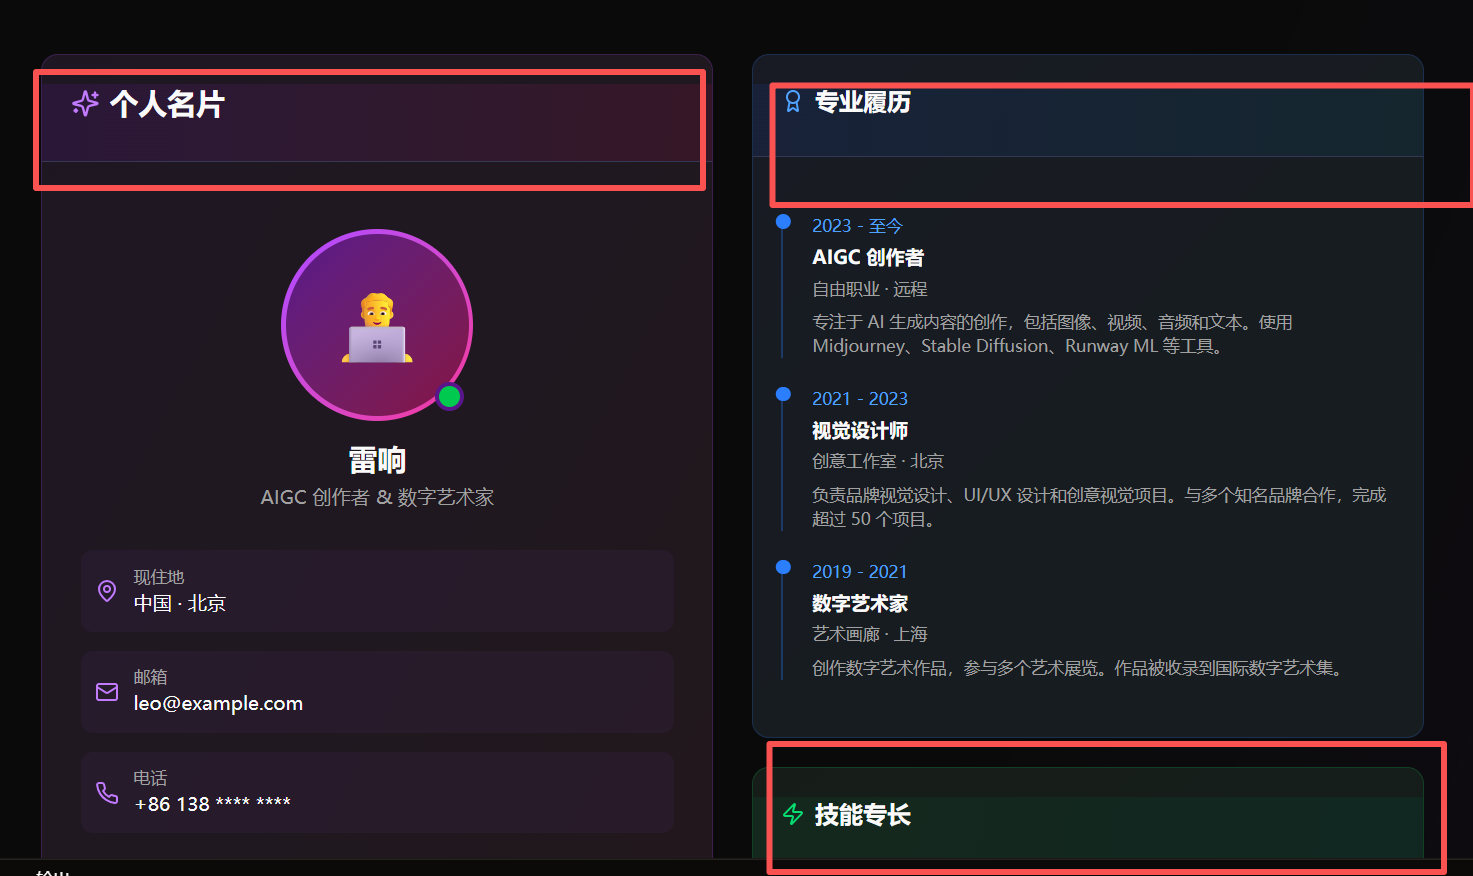
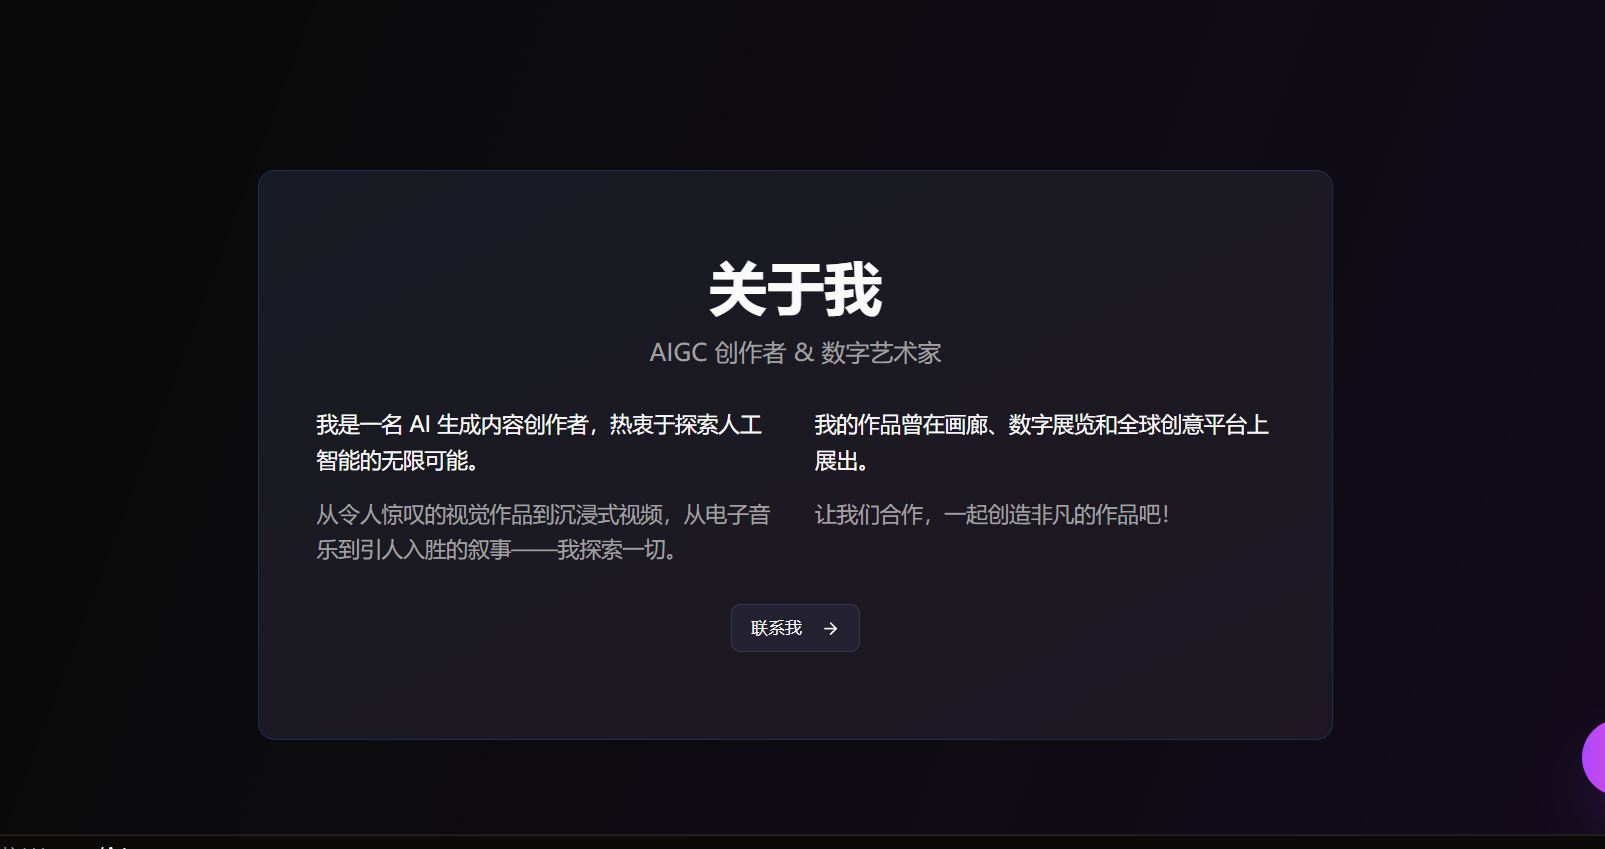
feat: 优化个人名片界面，添加科技感元素和对齐布局
- 添加科技感背景网格和光晕效果
- 增强卡片标题的流光动画和发光效果
- 优化头像区域的旋转光圈和网格背景
- 为信息项添加悬停光效和边框动画
- 增强社交媒体和联系按钮的交互效果
- 为履历时间轴节点添加发光动画
- 为技能标签添加悬停效果
- 添加 shimmer 自定义动画到全局样式
- 优化整体布局对齐，添加装饰线条

Changed region(s): [[0.0, 0.0612, 1.0, 1.0], [0.0, 0.98, 0.0625, 1.0]]

diff --git a/src/app/page.tsx b/src/app/page.tsx
@@ -244,24 +244,50 @@ export default function Home() {
       </motion.div>
 
       {/* Personal Profile Card Section */}
-      <section className="py-20 container mx-auto px-4">
+      <section className="py-20 container mx-auto px-4 relative overflow-hidden">
+        {/* 科技感背景 */}
+        <div className="absolute inset-0 opacity-30">
+          <div className="absolute inset-0" style={{
+            backgroundImage: `
+              linear-gradient(rgba(168, 85, 247, 0.03) 1px, transparent 1px),
+              linear-gradient(90deg, rgba(168, 85, 247, 0.03) 1px, transparent 1px)
+            `,
+            backgroundSize: '50px 50px'
+          }} />
+          <div className="absolute top-0 left-1/4 w-96 h-96 bg-purple-500/10 rounded-full blur-3xl" />
+          <div className="absolute bottom-0 right-1/4 w-96 h-96 bg-pink-500/10 rounded-full blur-3xl" />
+        </div>
+
         <motion.div
           initial={{ opacity: 0, y: 20 }}
           whileInView={{ opacity: 1, y: 0 }}
           viewport={{ once: true }}
           transition={{ duration: 0.6 }}
-          className="max-w-6xl mx-auto"
+          className="max-w-6xl mx-auto relative"
         >
-          {/* 标题居中优化 */}
-          <div className="text-center mb-12">
-            <h2 className="text-4xl md:text-5xl font-bold mb-4 text-center">
-              <span className="bg-gradient-to-r from-purple-400 via-pink-400 to-blue-400 bg-clip-text text-transparent">
+          {/* 标题居中优化 - 科技感装饰 */}
+          <div className="text-center mb-12 relative">
+            {/* 顶部装饰线 */}
+            <div className="absolute top-0 left-1/2 -translate-x-1/2 w-32 h-1 bg-gradient-to-r from-transparent via-purple-500 to-transparent" />
+            
+            <h2 className="text-4xl md:text-5xl font-bold mb-4 text-center relative">
+              <span className="bg-gradient-to-r from-purple-400 via-pink-400 to-blue-400 bg-clip-text text-transparent relative inline-block">
                 个人名片
+                {/* 光晕效果 */}
+                <span className="absolute inset-0 bg-gradient-to-r from-purple-400/0 via-purple-400/20 to-purple-400/0 blur-xl" />
               </span>
             </h2>
-            <p className="text-lg text-muted-foreground text-center max-w-2xl mx-auto">
+            
+            <p className="text-lg text-muted-foreground text-center max-w-2xl mx-auto relative">
               了解我的专业背景、技能专长和工作经历
             </p>
+
+            {/* 底部装饰线 */}
+            <div className="absolute bottom-0 left-1/2 -translate-x-1/2 w-32 h-1 bg-gradient-to-r from-transparent via-purple-500 to-transparent" />
+            
+            {/* 角落装饰 */}
+            <div className="absolute top-1/2 left-0 w-4 h-4 border-l-2 border-t-2 border-purple-500/50 -translate-y-1/2" />
+            <div className="absolute top-1/2 right-0 w-4 h-4 border-r-2 border-t-2 border-purple-500/50 -translate-y-1/2" />
           </div>
 
           <div className="grid md:grid-cols-2 gap-8 relative">
@@ -269,7 +295,7 @@ export default function Home() {
             <Button
               size="sm"
               variant="outline"
-              className="absolute -top-4 right-0 z-10 border-purple-500/30 hover:bg-purple-500/10 gap-2"
+              className="absolute -top-4 right-0 z-10 border-purple-500/30 hover:bg-purple-500/10 hover:border-purple-500/50 gap-2 transition-all duration-300 hover:shadow-lg hover:shadow-purple-500/20"
               onClick={() => setIsEditorOpen(true)}
             >
               <Edit className="w-4 h-4" />
@@ -277,88 +303,140 @@ export default function Home() {
             </Button>
 
             {/* 左侧：基本信息 */}
-            <Card className="border-purple-500/20 bg-gradient-to-br from-purple-900/10 to-pink-900/10 overflow-hidden">
-              <CardHeader className="bg-gradient-to-r from-purple-900/20 to-pink-900/20 border-b text-center">
-                <CardTitle className="text-2xl flex items-center justify-center gap-2">
-                  <Sparkles className="w-6 h-6 text-purple-400" />
+            <Card className="border-purple-500/20 bg-gradient-to-br from-purple-900/10 to-pink-900/10 overflow-hidden relative backdrop-blur-sm">
+              {/* 卡片光晕效果 */}
+              <div className="absolute inset-0 bg-gradient-to-br from-purple-500/5 via-transparent to-pink-500/5 pointer-events-none" />
+              
+              <CardHeader className="bg-gradient-to-r from-purple-900/20 to-pink-900/20 border-b text-center relative overflow-hidden">
+                {/* 流光效果 */}
+                <div className="absolute inset-0 bg-gradient-to-r from-transparent via-purple-500/10 to-transparent -translate-x-full animate-[shimmer_3s_infinite]" />
+                
+                <CardTitle className="text-2xl flex items-center justify-center gap-2 relative">
+                  <Sparkles className="w-6 h-6 text-purple-400 animate-pulse" />
                   基本信息
+                  <Sparkles className="w-6 h-6 text-purple-400 animate-pulse" />
                 </CardTitle>
               </CardHeader>
-              <CardContent className="p-8">
-                {/* 照片区域 */}
-                <div className="flex flex-col items-center mb-8">
-                  <div className="relative w-40 h-40 rounded-full bg-gradient-to-br from-purple-500 to-pink-500 p-1 mb-4">
-                    <div className="w-full h-full rounded-full bg-gradient-to-br from-purple-900 to-pink-900 flex items-center justify-center overflow-hidden">
+              <CardContent className="p-8 relative">
+                {/* 照片区域 - 增强科技感 */}
+                <div className="flex flex-col items-center mb-8 relative">
+                  {/* 外层光晕 */}
+                  <div className="absolute inset-0 w-48 h-48 bg-purple-500/20 rounded-full blur-3xl animate-pulse" />
+                  
+                  <div className="relative w-40 h-40 rounded-full bg-gradient-to-br from-purple-500 to-pink-500 p-1 mb-4 group">
+                    {/* 外层光圈 */}
+                    <div className="absolute inset-0 rounded-full bg-gradient-to-br from-purple-500/30 to-pink-500/30 blur-md animate-[spin_10s_linear_infinite]" />
+                    
+                    <div className="w-full h-full rounded-full bg-gradient-to-br from-purple-900 to-pink-900 flex items-center justify-center overflow-hidden relative z-10 border-2 border-purple-500/30">
+                      {/* 网格背景 */}
+                      <div className="absolute inset-0 opacity-20" style={{
+                        backgroundImage: 'radial-gradient(circle, #a855f7 1px, transparent 1px)',
+                        backgroundSize: '10px 10px'
+                      }} />
+                      
                       {/* 头像 */}
-                      <div className="text-6xl">{profileData.personalInfo.avatar}</div>
+                      <div className="text-6xl relative z-10 group-hover:scale-110 transition-transform duration-300">
+                        {profileData.personalInfo.avatar}
+                      </div>
                     </div>
-                    {/* 在线状态指示器 */}
-                    <div className="absolute bottom-2 right-2 w-6 h-6 bg-green-500 rounded-full border-4 border-purple-900" />
+                    
+                    {/* 在线状态指示器 - 增强光晕 */}
+                    <div className="absolute bottom-2 right-2 w-6 h-6 bg-green-500 rounded-full border-4 border-purple-900 animate-pulse shadow-lg shadow-green-500/50" />
                   </div>
-                  <h3 className="text-2xl font-bold mb-1 text-center">{profileData.personalInfo.name}</h3>
-                  <p className="text-muted-foreground text-center">{profileData.personalInfo.title}</p>
+                  
+                  <h3 className="text-2xl font-bold mb-1 text-center bg-gradient-to-r from-purple-400 to-pink-400 bg-clip-text text-transparent">
+                    {profileData.personalInfo.name}
+                  </h3>
+                  <p className="text-muted-foreground text-center relative">
+                    {profileData.personalInfo.title}
+                    {/* 下划线装饰 */}
+                    <span className="absolute -bottom-1 left-1/2 -translate-x-1/2 w-20 h-0.5 bg-gradient-to-r from-transparent via-purple-500 to-transparent" />
+                  </p>
                 </div>
 
-                {/* 基本信息 */}
+                {/* 基本信息 - 增强科技感 */}
                 <div className="space-y-4">
-                  <div className="flex items-center gap-3 p-3 rounded-lg bg-purple-500/5 hover:bg-purple-500/10 transition-colors">
-                    <MapPin className="w-5 h-5 text-purple-400 flex-shrink-0" />
-                    <div>
+                  <div className="group flex items-center gap-3 p-3 rounded-lg bg-purple-500/5 hover:bg-purple-500/10 transition-all duration-300 border border-purple-500/10 hover:border-purple-500/30 relative overflow-hidden">
+                    {/* 悬停光效 */}
+                    <div className="absolute inset-0 bg-gradient-to-r from-purple-500/0 via-purple-500/10 to-purple-500/0 -translate-x-full group-hover:animate-[shimmer_1s_infinite]" />
+                    
+                    <MapPin className="w-5 h-5 text-purple-400 flex-shrink-0 relative z-10" />
+                    <div className="relative z-10">
                       <p className="text-sm text-muted-foreground">现住地</p>
                       <p className="font-medium">{profileData.personalInfo.location}</p>
                     </div>
                   </div>
 
-                  <div className="flex items-center gap-3 p-3 rounded-lg bg-purple-500/5 hover:bg-purple-500/10 transition-colors">
-                    <Mail className="w-5 h-5 text-purple-400 flex-shrink-0" />
-                    <div>
+                  <div className="group flex items-center gap-3 p-3 rounded-lg bg-purple-500/5 hover:bg-purple-500/10 transition-all duration-300 border border-purple-500/10 hover:border-purple-500/30 relative overflow-hidden">
+                    <div className="absolute inset-0 bg-gradient-to-r from-purple-500/0 via-purple-500/10 to-purple-500/0 -translate-x-full group-hover:animate-[shimmer_1s_infinite]" />
+                    
+                    <Mail className="w-5 h-5 text-purple-400 flex-shrink-0 relative z-10" />
+                    <div className="relative z-10">
                       <p className="text-sm text-muted-foreground">邮箱</p>
                       <p className="font-medium">{profileData.personalInfo.email}</p>
                     </div>
                   </div>
 
-                  <div className="flex items-center gap-3 p-3 rounded-lg bg-purple-500/5 hover:bg-purple-500/10 transition-colors">
-                    <Phone className="w-5 h-5 text-purple-400 flex-shrink-0" />
-                    <div>
+                  <div className="group flex items-center gap-3 p-3 rounded-lg bg-purple-500/5 hover:bg-purple-500/10 transition-all duration-300 border border-purple-500/10 hover:border-purple-500/30 relative overflow-hidden">
+                    <div className="absolute inset-0 bg-gradient-to-r from-purple-500/0 via-purple-500/10 to-purple-500/0 -translate-x-full group-hover:animate-[shimmer_1s_infinite]" />
+                    
+                    <Phone className="w-5 h-5 text-purple-400 flex-shrink-0 relative z-10" />
+                    <div className="relative z-10">
                       <p className="text-sm text-muted-foreground">电话</p>
                       <p className="font-medium">{profileData.personalInfo.phone}</p>
                     </div>
                   </div>
                 </div>
 
-                {/* 社交媒体链接 */}
+                {/* 社交媒体链接 - 增强效果 */}
                 {(profileData.personalInfo.github || profileData.personalInfo.twitter || profileData.personalInfo.linkedin) && (
                   <div className="mt-8">
-                    <p className="text-sm text-muted-foreground mb-3 text-center">社交媒体</p>
+                    <p className="text-sm text-muted-foreground mb-3 text-center relative">
+                      社交媒体
+                      <span className="absolute -bottom-1 left-1/2 -translate-x-1/2 w-16 h-0.5 bg-gradient-to-r from-transparent via-purple-500 to-transparent" />
+                    </p>
                     <div className="flex justify-center gap-3">
                       {profileData.personalInfo.github && (
-                        <Button size="icon" variant="outline" className="border-purple-500/30 hover:bg-purple-500/10">
-                          <Github className="w-5 h-5" />
+                        <Button 
+                          size="icon" 
+                          variant="outline" 
+                          className="border-purple-500/30 hover:bg-purple-500/10 hover:border-purple-500/50 hover:shadow-lg hover:shadow-purple-500/20 transition-all duration-300 group"
+                        >
+                          <Github className="w-5 h-5 group-hover:scale-110 transition-transform" />
                         </Button>
                       )}
                       {profileData.personalInfo.twitter && (
-                        <Button size="icon" variant="outline" className="border-purple-500/30 hover:bg-purple-500/10">
-                          <Twitter className="w-5 h-5" />
+                        <Button 
+                          size="icon" 
+                          variant="outline" 
+                          className="border-purple-500/30 hover:bg-purple-500/10 hover:border-purple-500/50 hover:shadow-lg hover:shadow-purple-500/20 transition-all duration-300 group"
+                        >
+                          <Twitter className="w-5 h-5 group-hover:scale-110 transition-transform" />
                         </Button>
                       )}
                       {profileData.personalInfo.linkedin && (
-                        <Button size="icon" variant="outline" className="border-purple-500/30 hover:bg-purple-500/10">
-                          <Linkedin className="w-5 h-5" />
+                        <Button 
+                          size="icon" 
+                          variant="outline" 
+                          className="border-purple-500/30 hover:bg-purple-500/10 hover:border-purple-500/50 hover:shadow-lg hover:shadow-purple-500/20 transition-all duration-300 group"
+                        >
+                          <Linkedin className="w-5 h-5 group-hover:scale-110 transition-transform" />
                         </Button>
                       )}
                     </div>
                   </div>
                 )}
 
-                {/* 联系按钮 */}
+                {/* 联系按钮 - 增强效果 */}
                 <Button
                   size="lg"
-                  className="w-full mt-6 bg-gradient-to-r from-purple-500 to-pink-500 hover:from-purple-600 hover:to-pink-600"
+                  className="w-full mt-6 bg-gradient-to-r from-purple-500 to-pink-500 hover:from-purple-600 hover:to-pink-600 hover:shadow-lg hover:shadow-purple-500/30 transition-all duration-300 relative overflow-hidden group"
                   asChild
                 >
                   <Link href="/contact">
                     <Mail className="mr-2 w-5 h-5" />
                     联系我
+                    <span className="absolute inset-0 bg-gradient-to-r from-transparent via-white/20 to-transparent -translate-x-full group-hover:animate-[shimmer_1.5s_infinite]" />
                   </Link>
                 </Button>
               </CardContent>
@@ -366,23 +444,32 @@ export default function Home() {
 
             {/* 右侧：履历和技能 */}
             <div className="space-y-6">
-              {/* 履历 */}
-              <Card className="border-blue-500/20 bg-gradient-to-br from-blue-900/10 to-cyan-900/10">
-                <CardHeader className="bg-gradient-to-r from-blue-900/20 to-cyan-900/20 border-b">
-                  <CardTitle className="text-xl flex items-center justify-center gap-2">
-                    <Award className="w-5 h-5 text-blue-400" />
+              {/* 履历 - 增强科技感 */}
+              <Card className="border-blue-500/20 bg-gradient-to-br from-blue-900/10 to-cyan-900/10 overflow-hidden relative backdrop-blur-sm">
+                {/* 卡片光晕效果 */}
+                <div className="absolute inset-0 bg-gradient-to-br from-blue-500/5 via-transparent to-cyan-500/5 pointer-events-none" />
+                
+                <CardHeader className="bg-gradient-to-r from-blue-900/20 to-cyan-900/20 border-b relative overflow-hidden">
+                  {/* 流光效果 */}
+                  <div className="absolute inset-0 bg-gradient-to-r from-transparent via-blue-500/10 to-transparent -translate-x-full animate-[shimmer_3s_infinite]" />
+                  
+                  <CardTitle className="text-xl flex items-center justify-center gap-2 relative">
+                    <Award className="w-5 h-5 text-blue-400 animate-pulse" />
                     专业履历
+                    <Award className="w-5 h-5 text-blue-400 animate-pulse" />
                   </CardTitle>
                 </CardHeader>
-                <CardContent className="p-6">
+                <CardContent className="p-6 relative">
                   <div className="space-y-6">
-                    {profileData.experiences.map((exp) => (
-                      <div key={exp.id} className="relative pl-6 border-l-2 border-blue-500/30">
-                        <div className="absolute left-0 top-0 -translate-x-1.5 w-3 h-3 rounded-full bg-blue-500" />
-                        <div className="mb-1 text-sm text-blue-400">{exp.year}</div>
+                    {profileData.experiences.map((exp, index) => (
+                      <div key={exp.id} className="relative pl-6 border-l-2 border-blue-500/30 group">
+                        {/* 时间轴节点 - 增强发光效果 */}
+                        <div className="absolute left-0 top-0 -translate-x-1.5 w-3 h-3 rounded-full bg-blue-500 shadow-lg shadow-blue-500/50 group-hover:scale-125 transition-transform duration-300" />
+                        
+                        <div className="mb-1 text-sm text-blue-400 font-medium">{exp.year}</div>
                         <h4 className="font-bold mb-1">{exp.position}</h4>
                         <p className="text-sm text-muted-foreground mb-2">{exp.company} · {exp.location}</p>
-                        <p className="text-sm text-muted-foreground">
+                        <p className="text-sm text-muted-foreground leading-relaxed">
                           {exp.description}
                         </p>
                       </div>
@@ -391,20 +478,27 @@ export default function Home() {
                 </CardContent>
               </Card>
 
-              {/* 技能展示 */}
-              <Card className="border-green-500/20 bg-gradient-to-br from-green-900/10 to-emerald-900/10">
-                <CardHeader className="bg-gradient-to-r from-green-900/20 to-emerald-900/20 border-b">
-                  <CardTitle className="text-xl flex items-center justify-center gap-2">
-                    <Zap className="w-5 h-5 text-green-400" />
+              {/* 技能展示 - 增强科技感 */}
+              <Card className="border-green-500/20 bg-gradient-to-br from-green-900/10 to-emerald-900/10 overflow-hidden relative backdrop-blur-sm">
+                {/* 卡片光晕效果 */}
+                <div className="absolute inset-0 bg-gradient-to-br from-green-500/5 via-transparent to-emerald-500/5 pointer-events-none" />
+                
+                <CardHeader className="bg-gradient-to-r from-green-900/20 to-emerald-900/20 border-b relative overflow-hidden">
+                  {/* 流光效果 */}
+                  <div className="absolute inset-0 bg-gradient-to-r from-transparent via-green-500/10 to-transparent -translate-x-full animate-[shimmer_3s_infinite]" />
+                  
+                  <CardTitle className="text-xl flex items-center justify-center gap-2 relative">
+                    <Zap className="w-5 h-5 text-green-400 animate-pulse" />
                     技能专长
+                    <Zap className="w-5 h-5 text-green-400 animate-pulse" />
                   </CardTitle>
                 </CardHeader>
-                <CardContent className="p-6">
+                <CardContent className="p-6 relative">
                   <div className="space-y-4">
                     {profileData.skillCategories.map((category) => (
-                      <div key={category.id}>
+                      <div key={category.id} className="group">
                         <div className="flex items-center gap-2 mb-3">
-                          <span className="text-xl">{category.icon}</span>
+                          <span className="text-xl group-hover:scale-110 transition-transform duration-300">{category.icon}</span>
                           <h4 className="font-semibold text-sm">{category.name}</h4>
                         </div>
                         <div className="flex flex-wrap gap-2">
@@ -412,7 +506,7 @@ export default function Home() {
                             <Badge
                               key={index}
                               variant="secondary"
-                              className="bg-green-500/20 text-green-300 border-green-500/30"
+                              className="bg-green-500/20 text-green-300 border-green-500/30 hover:bg-green-500/30 hover:border-green-500/50 hover:shadow-lg hover:shadow-green-500/20 transition-all duration-300 cursor-default"
                             >
                               {skill}
                             </Badge>

diff --git a/src/app/globals.css b/src/app/globals.css
@@ -192,6 +192,20 @@ html {
   animation: gradient-x 3s ease infinite;
 }
 
+/* Shimmer Animation */
+@keyframes shimmer {
+  0% {
+    transform: translateX(-100%);
+  }
+  100% {
+    transform: translateX(100%);
+  }
+}
+
+.animate-shimmer {
+  animation: shimmer 2s ease-in-out infinite;
+}
+
 /* Glowing Button Effect */
 .glow-button {
   position: relative;
